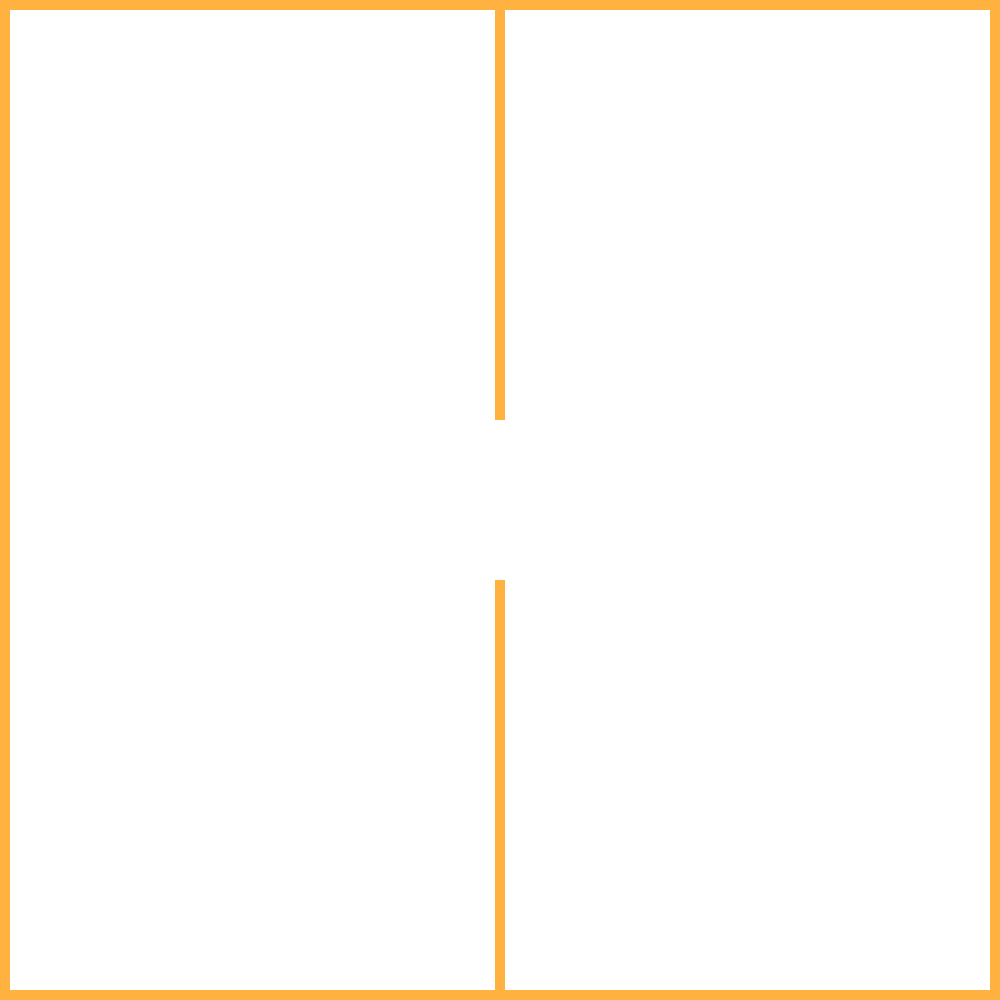
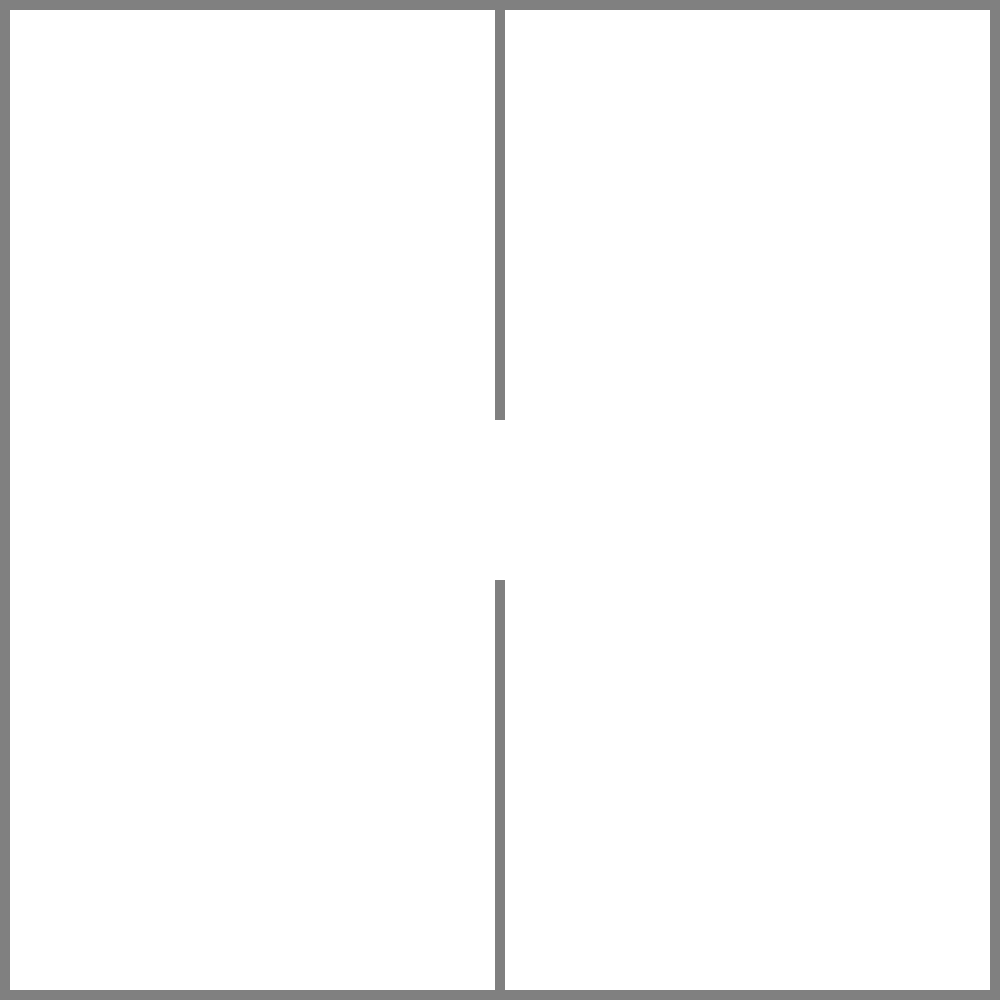
Correct requirement for border presence + more structure in the code
- newly added image for the border and the closed border.
- social distancing is now kind of correctly implemented (based on the other github.
- added scenario0

Changed region(s): [[0.0, 0.0, 1.0, 1.0]]

diff --git a/simulation/simulation.py b/simulation/simulation.py
@@ -9,10 +9,12 @@ import os
 from scipy.interpolate import make_interp_spline, BSpline
 
 from typing import Union, Tuple
+from experiments.covid.scenarios import scenarios0
 
 from experiments.aggregation.aggregation import Aggregations
 from experiments.covid.population import Population
 from experiments.flocking.flock import Flock
+from experiments.covid.config import config
 
 
 def _plot_covid(data) -> None:
@@ -164,29 +166,15 @@ class Simulation:
         """
         # initialize the environment and agent/obstacle positions
         self.initialize()
-        obstacle_scale = [1000,1000]
-        obstacle_loc = [500,500]
-        obstacle_filename = "experiments/covid/images/Borders.png"
-        counter = 0
+
+        # Set the scenario
+        scenario = scenarios0()
 
         if self.iter == float("inf"):
             while self.running:
-                counter += 1
                 init = time.time()
-                if len(self.swarm.objects.obstacles) < 1:
-                    self.swarm.objects.add_object(
-                        file=obstacle_filename, pos=obstacle_loc,
-                        scale=obstacle_scale, obj_type="obstacle", index=0
-                    )
-                if counter % 100 == 0 and len(self.swarm.objects.obstacles) < 2:
-                    self.swarm.objects.add_object(file="experiments/covid/images/BordersClosed.png", pos=obstacle_loc,
-                        scale=obstacle_scale, obj_type="obstacle",index=1)
-                elif len(self.swarm.objects.obstacles) > 1:
-                    if np.random.choice([True, False], p=[0.1, 0.9]):
-                        for obstacle in self.swarm.objects.obstacles:
-                            if obstacle.index == 1:
-                                self.swarm.objects.obstacles.remove(obstacle)
-                print(len(self.swarm.objects.obstacles))
+                if scenario:
+                    self.check_closure()
                 self.simulate()
             self.plot_simulation()
         else:
@@ -197,9 +185,30 @@ class Simulation:
         # Get the path to the current folder
         folder, _ = os.path.split(os.path.dirname(__file__))
         # Find a path to the screenshot folder
-        folder = os.path.join(folder, 'experiments/%s/screenshots' %self.swarm_type)
+        folder = os.path.join(folder, 'experiments/%s/screenshots' % self.swarm_type)
         # If the path does not exist yet, then create one
         if not os.path.exists(folder):
             os.makedirs(folder)
         # Save the screenshot as a png with the index corresponding to the frame index
         pygame.image.save(self.screen, os.path.join(folder, f'screenshot_30radius_100population{index:03d}.png'))
+
+    def check_closure(self):
+        infected = 0
+        for agent in self.swarm.agents:
+            if agent.state == "I":
+                infected += 1
+        if infected >= config["base"]["n_agents"]/2 and len(self.swarm.objects.obstacles) < 2:
+            self.add_closure()
+
+        elif infected < config["base"]["n_agents"]/2 and len(self.swarm.objects.obstacles) > 1:
+            self.remove_closure()
+
+
+    def add_closure(self):
+        self.swarm.objects.add_object(file="experiments/covid/images/BordersClosed.png", pos=[500, 500],
+                                      scale=[1000, 1000], obj_type="obstacle", index=1)
+
+    def remove_closure(self):
+        for obstacle in self.swarm.objects.obstacles:
+            if obstacle.index == 1:
+                self.swarm.objects.obstacles.remove(obstacle)

diff --git a/experiments/covid/person.py b/experiments/covid/person.py
@@ -31,7 +31,6 @@ class Person(Agent):
         self.avoided_obstacles: bool = False
         self.prev_pos = None
         self.prev_v = None
-        self.in_lockdown = False
         self.age = age
         self.counter = 1
         self.resistance = resistance
@@ -42,9 +41,6 @@ class Person(Agent):
 
         # Avoid obstacles
         self.check_for_obstacles()
-
-        # Assign agents to be part of lockdown based on their location
-        self.check_lockdown()
 
         # Random stopping of agents to have more natural behaviour
         if self.stop_timer == 0 and self.counter % 100 == 0:
@@ -63,7 +59,7 @@ class Person(Agent):
         #         self.check
 
         # Check if agent will be infected and whether the agent will keep distance
-        self.infect_distancing
+        self.infect_distancing()
 
         # Used for the continue_walk function
         self.counter += 1
@@ -73,13 +69,6 @@ class Person(Agent):
         if self.index == 0:
             for agent in self.flock.agents:
                 self.flock.datapoints.append(agent.state)
-
-    def check_lockdown(self):
-        for object in self.flock.objects.obstacles:
-            if self.pos[0] and self.pos[1] in range(int(area(object.pos[0],object.scale[0])[0]),int(area(object.pos[1],object.scale[1])[1])):
-                self.in_lockdown = True
-            else:
-                self.in_lockdown = False
 
     def check_recover(self):
         if self.timer != None:
@@ -98,8 +87,8 @@ class Person(Agent):
                 self.v = [self.v[1]*-1, self.v[0]*-1]
 
             # probability of getting infected
-            if neighbour.state == "I" and self.state == "S" and self.in_lockdown == neighbour.in_lockdown:
-                if np.random.choice([True, False], p=[0.1, 0.9]):
+            if neighbour.state == "I" and self.state == "S":
+                if np.random.choice([True, False], p=[self.resistance,1-self.resistance]):
                     Agent.set_color(self,[255,69,0])
                     self.timer = time.time()
                     self.state = "I"

diff --git a/experiments/covid/population.py b/experiments/covid/population.py
@@ -6,6 +6,7 @@ from experiments.covid.config import config
 from experiments.covid.person import Person
 from simulation.swarm import Swarm
 from simulation.utils import *
+from experiments.covid.scenarios import scenarios0
 
 
 class Population(Swarm):
@@ -13,7 +14,7 @@ class Population(Swarm):
 
     def __init__(self, screen_size) -> None:
         super(Population, self).__init__(screen_size)
-        # To do
+        self.scenario = scenarios0()
 
     def initialize(self, num_agents: int) -> None:
         """
@@ -24,6 +25,8 @@ class Population(Swarm):
         # To Do
         # code snipet (not complete) to avoid initializing agents on obstacles
         # given some coordinates and obstacles in the environment, this repositions the agent
+        if self.scenario:
+            self.add_lockdown()
 
         for index, agent in enumerate(range(num_agents)):
             coordinates = generate_coordinates(self.screen)
@@ -55,3 +58,12 @@ class Population(Swarm):
                                       color=[255,165,0],timer=None,
                                       age=np.random.choice([random.randint(5,35), random.randint(36,75)], p=[0.7, 0.3]),
                                       resistance=resistance))
+
+    def add_lockdown(self):
+        obstacle_filename = "experiments/covid/images/Borders.png"
+        obstacle_loc = [500,500]
+        obstacle_scale = [1000,1000]
+        self.objects.add_object(
+            file=obstacle_filename, pos=obstacle_loc,
+            scale=obstacle_scale, obj_type="obstacle", index=0
+        )

diff --git a/experiments/covid/scenarios.py b/experiments/covid/scenarios.py
@@ -1,4 +1,5 @@
 from typing import Any, List, Mapping, Tuple
 
 def scenarios0():
-    pass
+    lockdown = True
+    return lockdown
